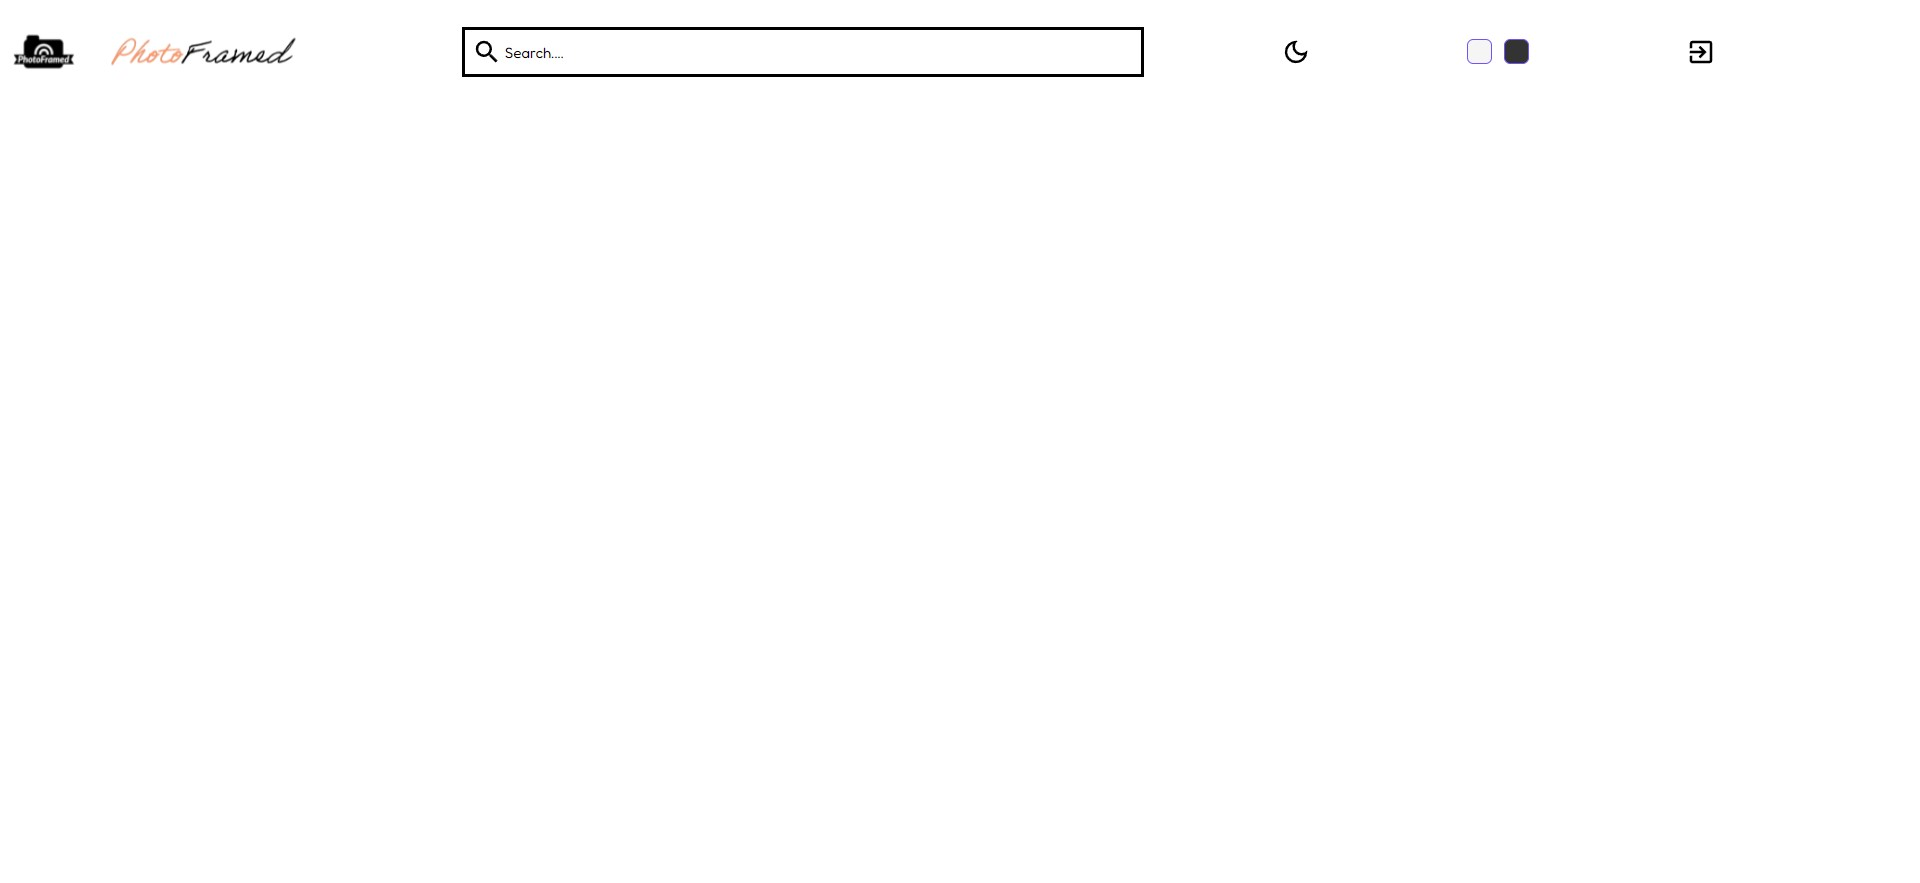
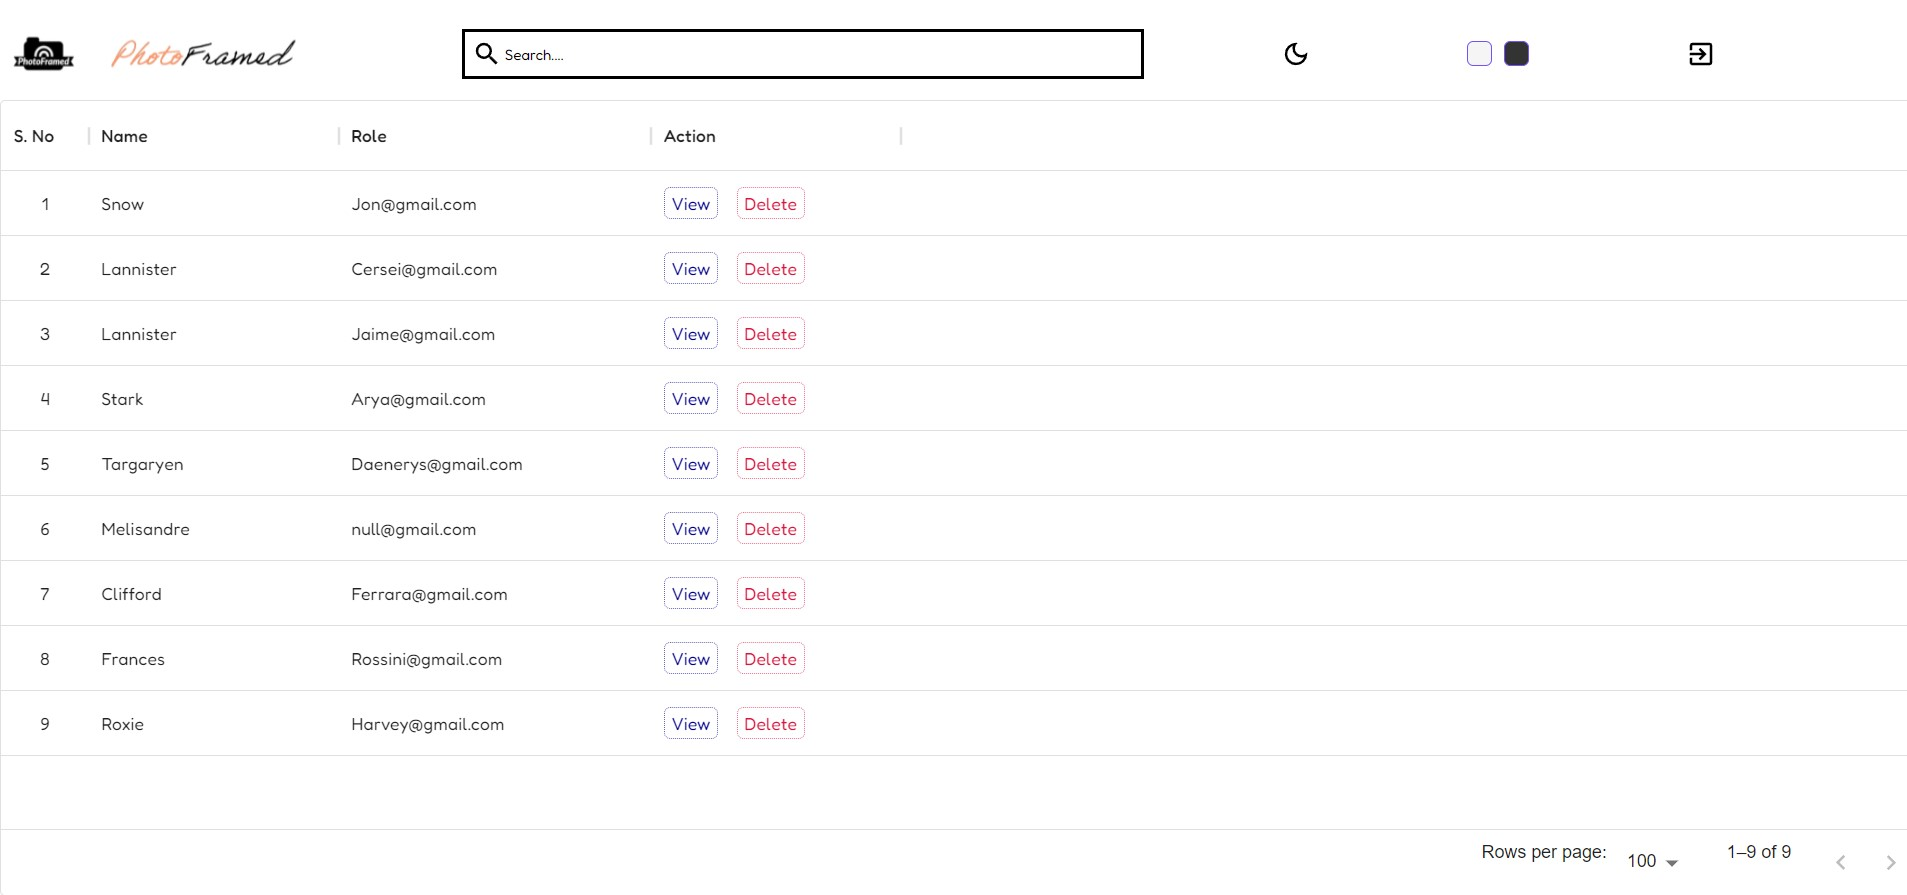
Added Users list to admin page

diff --git a/reactapp/src/components/admin/darkmode/dark.scss b/reactapp/src/components/admin/darkmode/dark.scss
@@ -1,80 +1,55 @@
 .app.dark {
+  background-color: #111;
+  color: rgb(156, 156, 156);
+
+  .chartGrid {
+    stroke: rgba(228, 228, 228, 0.219);
+  }
+
+  .table {
     background-color: #111;
-    color: rgb(156, 156, 156);
-  
-    .chartGrid {
-      stroke: rgba(228, 228, 228, 0.219);
-    }
-  
-    .table {
-      background-color: #111;
-  
-      .tableCell {
-        color: gray;
-      }
-    }
-  
-    .navbar {
-      color: #999;
-      border-color: #333;
-      background-color: #333;
-  
-      .search {
-        border-color: gray;
-        input {
-            border: none;
-            outline: none;
-            background: transparent;
-    
-            &::placeholder {
-              font-size: 12px;
-              color: rgb(252, 252, 252);
-            }
-          }
-      }
-    }
-  
-    .sidebar {
-      background-color: #111;
-      border-color: #333;
-  
-      .top {
-        .logo {
-          color: #999;
-        }
-      }
-      hr {
-        border-color: #333;
-      }
-  
-      ul {
-        li {
-          &:hover {
-            background-color: #333;
-          }
-  
-          .icon {
-            color: #999;
-          }
-        }
-      }
-    }
-  
-    .datatable {
-      .datagrid {
-        color: gray;
-        border: none;
-  
-        .viewButton,
-        .deleteButton,
-        .cellWithStatus {
-          color: gray;
-          border: none;
-        }
-      }
-    }
-  
-    input{
-        background-color: transparent;
+
+    .tableCell {
+      color: gray;
     }
   }
+
+  .navbar {
+    color: #999;
+    border-color: #333;
+    background-color: #333;
+
+    .search {
+      border-color: gray;
+      input {
+        border: none;
+        outline: none;
+        background: transparent;
+
+        &::placeholder {
+          font-size: 12px;
+          color: rgb(252, 252, 252);
+        }
+      }
+    }
+  }
+
+  .userslist {
+    .datagrid {
+      color: gray;
+      border: none;
+
+      .viewButton,
+      .deleteButton,
+      .cellWithStatus {
+        color: gray;
+        border: 1px dotted rgba(255, 255, 255, 0);
+        border-color: gray;
+      }
+    }
+  }
+
+  input {
+    background-color: transparent;
+  }
+}

diff --git a/reactapp/src/components/admin/Userslist.jsx b/reactapp/src/components/admin/Userslist.jsx
@@ -1,0 +1,51 @@
+import React, { useState } from "react";
+import { DataGrid } from "@mui/x-data-grid";
+import "./Userslist.css";
+import { columns, rows } from "./Userssource";
+import { Link } from "react-router-dom";
+
+const Userslist = () => {
+  const [data, setData] = useState(rows);
+
+  const handleDelete = (id) => {
+    setData(data.filter((item) => item.id !== id));
+  };
+
+  const actionColumn = [
+    {
+      field: "action",
+      headerName: "Action",
+      width: 200,
+      renderCell: (params) => {
+        return (
+          <div className="cellAction">
+            <Link to="/admin" style={{ textDecoration: "none" }}>
+              <div className="viewButton">View</div>
+            </Link>
+            <div
+              className="deleteButton"
+              onClick={() => handleDelete(params.row.id)}
+            >
+              Delete
+            </div>
+          </div>
+        );
+      },
+    },
+  ];
+
+  return (
+    <div className="userslist" style={{ height: 637 }}>
+      <DataGrid
+        className="datagrid"
+        width={"100%"}
+        rows={data}
+        columns={columns.concat(actionColumn)}
+        // pageSize={9}
+        // rowsPerPageOptions={[5]
+      />
+    </div>
+  );
+};
+
+export default Userslist;

diff --git a/reactapp/src/components/admin/Userssource.js b/reactapp/src/components/admin/Userssource.js
@@ -1,0 +1,16 @@
+export const columns = [
+  { field: "id", headerName: "S. No", width: 70, align: "center" },
+  { field: "username", headerName: "Name", width: 200 },
+  { field: "role", headerName: "Role", width: 250 },
+];
+export const rows = [
+  { id: 1, username: "Snow", role: "Jon@gmail.com" },
+  { id: 2, username: "Lannister", role: "Cersei@gmail.com" },
+  { id: 3, username: "Lannister", role: "Jaime@gmail.com" },
+  { id: 4, username: "Stark", role: "Arya@gmail.com" },
+  { id: 5, username: "Targaryen", role: "Daenerys@gmail.com" },
+  { id: 6, username: "Melisandre", role: "null@gmail.com" },
+  { id: 7, username: "Clifford", role: "Ferrara@gmail.com" },
+  { id: 8, username: "Frances", role: "Rossini@gmail.com" },
+  { id: 9, username: "Roxie", role: "Harvey@gmail.com" },
+];

diff --git a/reactapp/src/components/admin/Admin.jsx b/reactapp/src/components/admin/Admin.jsx
@@ -1,10 +1,11 @@
 import React from "react";
-// import { Link } from "react-router-dom";
+import { Link } from "react-router-dom";
 import "./Admin.scss";
 import "./darkmode/dark.scss";
 import { DarkModeContext } from "./darkmode/DarkModeContext";
 import Navbar from "./Navbar";
 import { useContext } from "react";
+import Userslist from "./Userslist";
 
 //Home page at admin side
 function Admin() {
@@ -12,6 +13,7 @@ function Admin() {
   return (
     <div className={darkMode ? "app dark" : "app"}>
       <Navbar />
+      <Userslist />
     </div>
   );
 }

diff --git a/reactapp/src/components/admin/Userslist.css b/reactapp/src/components/admin/Userslist.css
@@ -1,0 +1,26 @@
+.userslist {
+  /* height: 10%; */
+  /* padding: 20%; */
+  /* display: 100%; */
+}
+.cellAction {
+  display: flex;
+  align-items: center;
+  gap: 15px;
+}
+
+.viewButton {
+  padding: 2px 5px;
+  border-radius: 5px;
+  color: darkblue;
+  border: 1px dotted rgba(0, 0, 139, 0.596);
+  cursor: pointer;
+}
+
+.deleteButton {
+  padding: 2px 5px;
+  border-radius: 5px;
+  color: crimson;
+  border: 1px dotted rgba(220, 20, 60, 0.6);
+  cursor: pointer;
+}
